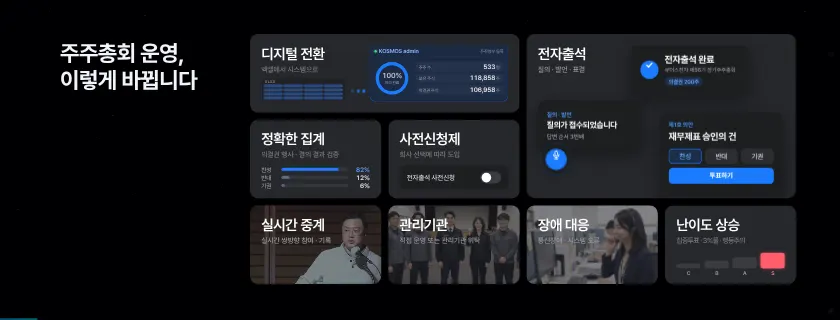
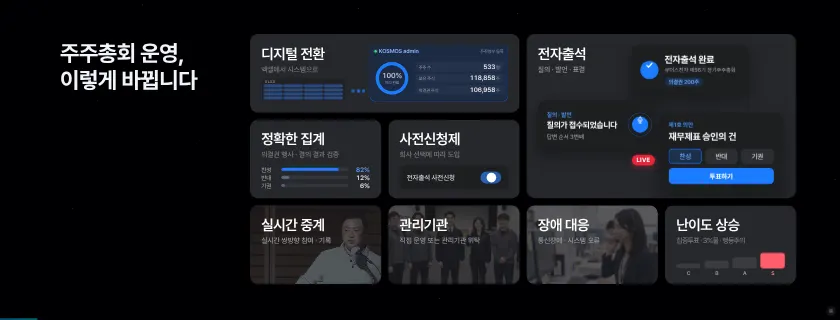
세션4 K02 마이크 아이콘 질의 · 발언 카드 안으로, 카드 아래 오른쪽 LIVE 뱃지, 중계 · 관리기관 · 장애 대응 사진 더 어둡게
Claude-Session: https://claude.ai/code/session_01Mn7NmyW5iujmmHnaRBFKBZ

diff --git a/session4.html b/session4.html
@@ -2259,6 +2259,17 @@ html.r169 #K27 .sec-h{font-size:92px!important}
 .s.cur#K27 .photo{animation:k27p2 1.6s cubic-bezier(.2,.7,.2,1) .9s both!important}
 .s.cur#K27 .shade{animation:k27s .1s linear .9s both!important}
 @keyframes k27p2{from{opacity:0;scale:1.04}to{opacity:1;scale:1}}
+
+/* 11/27 23:12 K02 마이크 아이콘을 질의 · 발언 카드 안 오른쪽으로, 카드 아래 오른쪽에 LIVE 뱃지, 중계 · 관리기관 · 장애 대응 사진 더 어둡게 */
+#K02 .bc.ph .u3{padding-right:124px!important;width:548px!important}
+#K02 .bc.ph .u3 .vic{left:auto;right:32px;top:50%;width:76px;height:76px;margin-top:-38px;opacity:1!important;box-shadow:none}
+#K02 .bc.ph .u3 .vic svg{width:38px;height:38px}
+#K02 .bc.ph .k2live{position:absolute;left:526px;top:604px;z-index:3;display:inline-flex;align-items:center;gap:12px;padding:12px 24px;border-radius:999px;background:#e5243b;color:#fff;font:700 30px/1 "Pretendard Variable";letter-spacing:.04em;box-shadow:0 10px 30px rgba(229,36,59,.35);opacity:0}
+#K02 .bc.ph .k2live i{width:12px;height:12px;border-radius:50%;background:#fff}
+#K02.cur .bc.ph .k2live{opacity:1;transition:opacity .5s ease 2.2s}
+#K02.cur .bc.ph .k2live i{animation:k2lv 1.2s ease-in-out infinite}
+@keyframes k2lv{50%{opacity:.25}}
+#K02 .bw:is(.d,.f,.g) .bc.im i,#K02 .bw:is(.d,.f,.g) .bc.im video{filter:brightness(.62)!important}
 /* ═════ 16:9 버전 (?a=16x9, 11/27) ═════
    ※ 빔프로젝터(led.html?a=16x9) M7-7이 이 모드를 씀. 장을 고치면 ?a=16x9로도 확인하고, 21:8 원본 위치를 바꾸면 아래 html.r169 #Kxx 규칙도 같이 맞출 것.
       R169Z(묶음 축소) 장은 내용 범위를 자동으로 재서 배치하므로 대부분 따라감.
@@ -2367,7 +2378,7 @@ html.r169 #K28p .k28bg{top:800px}
 <section class="s" id="K02" data-t="운영의 8가지 변화" data-dim=".2">
  <div class="top"><h2 class="h hm fu" style="--i:1">주주총회 운영,<br>이렇게 바뀝니다</h2></div>
  <div class="sw"><div class="swt"><div class="cc l" style="background:radial-gradient(120% 80% at 80% 100%,#4677e6 0%,rgba(70,119,230,0) 60%),linear-gradient(170deg,#e9eef8 0%,#b8c9ee 100%)"><p class="cs">엑셀에서 시스템으로</p><b>디지털 전환</b></div><div class="cc l" style="background:radial-gradient(120% 80% at 80% 100%,#64a8e6 0%,rgba(100,168,230,0) 60%),linear-gradient(170deg,#e8f1f8 0%,#b8d5ee 100%)"><p class="cs">질의 · 발언 · 표결</p><b>전자출석</b></div><div class="cc l" style="background:radial-gradient(120% 80% at 80% 100%,#4677e6 0%,rgba(70,119,230,0) 60%),linear-gradient(170deg,#e9eef8 0%,#b8c9ee 100%)"><p class="cs">회사 선택에 따라 도입</p><b>사전신청제</b></div><div class="cc l" style="background:radial-gradient(120% 80% at 80% 100%,#4677e6 0%,rgba(70,119,230,0) 60%),linear-gradient(170deg,#e9eef8 0%,#b8c9ee 100%)"><p class="cs">실시간 쌍방향 참여 · 기록</p><b>실시간 중계</b></div><div class="cc l" style="background:radial-gradient(120% 80% at 80% 100%,#64a8e6 0%,rgba(100,168,230,0) 60%),linear-gradient(170deg,#e8f1f8 0%,#b8d5ee 100%)"><p class="cs">의결권 행사 · 결의 결과 검증</p><b>정확한 집계</b></div><div class="cc l" style="background:radial-gradient(120% 80% at 80% 100%,#64a8e6 0%,rgba(100,168,230,0) 60%),linear-gradient(170deg,#e8f1f8 0%,#b8d5ee 100%)"><p class="cs">직접 운영 또는<br>관리기관 위탁</p><b>관리기관</b></div><div class="cc l" style="background:radial-gradient(120% 80% at 80% 100%,#ec5566 0%,rgba(236,85,102,0) 62%),linear-gradient(170deg,#f6ecee 0%,#eac0c6 100%)"><p class="cs">통신장애 · 시스템 오류</p><b>장애 대응</b></div><div class="cc l" style="background:radial-gradient(120% 80% at 80% 100%,#ec5566 0%,rgba(236,85,102,0) 62%),linear-gradient(170deg,#f6ecee 0%,#eac0c6 100%)"><p class="cs">집중투표 · 3%룰 · 행동주의</p><b>난이도 상승</b></div></div></div>
- <div class="bt"><div class="bw a" style="--k:0"><div class="bc co" style="background:radial-gradient(120% 80% at 80% 100%,#4677e6 0%,rgba(70,119,230,0) 60%),linear-gradient(170deg,#e9eef8 0%,#b8c9ee 100%)"><b>디지털 전환</b><p>엑셀에서 시스템으로</p><div class="vz dx"><div class="xl"><span class="xt">XLSX</span><i style="--r:0"></i><i style="--r:0"></i><i style="--r:0"></i><i style="--r:0"></i><i style="--r:1"></i><i style="--r:1"></i><i style="--r:1"></i><i style="--r:1"></i><i style="--r:2"></i><i style="--r:2"></i><i style="--r:2"></i><i style="--r:2"></i><i style="--r:3"></i><i style="--r:3"></i><i style="--r:3"></i><i style="--r:3"></i></div><div class="ar"><i></i><i></i><i></i></div><div class="sy db"><div class="dh"><span class="st"><i></i>KOSMOS admin</span><span class="dt">주주명부 등록</span></div><div class="dbb"><div class="rg"><svg viewBox="0 0 120 120"><circle cx="60" cy="60" r="50" class="t"/><circle cx="60" cy="60" r="50" class="f" pathLength="100"/></svg><p><em class="pc"></em><small>처리 완료</small></p></div><div class="kp"><div><small>주주 수</small><span><b data-t="533">0</b><i>명</i></span></div><div><small>보유 주식</small><span><b data-t="118858">0</b><i>주</i></span></div><div><small>의결권 주식</small><span><b data-t="106958">0</b><i>주</i></span></div></div></div></div></div></div></div><div class="bw b" style="--k:1"><div class="bc im ph"><div class="vic"><i></i><i></i><svg viewBox="0 0 24 24"><rect x="9" y="3" width="6" height="11" rx="3"/><path d="M5.5 11a6.5 6.5 0 0 0 13 0M12 17.5V21M8.5 21h7"/></svg></div><div class="uc u1"><div class="ck"><svg viewBox="0 0 24 24"><path d="M6 12.5l4 4 8-9"/></svg></div><div><b>전자출석 완료</b><span>큐더스전자 제56기 정기주주총회</span><em>의결권 200주</em></div></div><div class="uc u2"><span class="ag">제1호 의안</span><b>재무제표 승인의 건</b><div class="vt"><div class="on">찬성</div><div>반대</div><div>기권</div></div><div class="go">투표하기</div></div><div class="uc u3"><span class="ag">질의 · 발언</span><b>질의가 접수되었습니다</b><span>답변 순서 3번째</span></div><b>전자출석</b><p>질의 · 발언 · 표결</p></div></div><div class="bw c" style="--k:2"><div class="bc co" style="background:radial-gradient(120% 80% at 80% 100%,#64a8e6 0%,rgba(100,168,230,0) 60%),linear-gradient(170deg,#e8f1f8 0%,#b8d5ee 100%)"><b>정확한 집계</b><p>의결권 행사 · 결의 결과 검증</p><div class="vz tl2"><div class="r"><span>찬성</span><i><b style="--w:.82"></b></i><em style="--t:82"></em></div><div class="r"><span>반대</span><i><b style="--w:.12"></b></i><em style="--t:12"></em></div><div class="r"><span>기권</span><i><b style="--w:.06"></b></i><em style="--t:6"></em></div></div></div></div><div class="bw d" style="--k:3"><div class="bc im"><video src="assets/s4/ke-live.mp4" muted autoplay loop playsinline></video><b>실시간 중계</b><p>실시간 쌍방향 참여 · 기록</p></div></div><div class="bw e" style="--k:4"><div class="bc co" style="background:radial-gradient(120% 80% at 80% 100%,#64a8e6 0%,rgba(100,168,230,0) 60%),linear-gradient(170deg,#e8f1f8 0%,#b8d5ee 100%)"><b>사전신청제</b><p>회사 선택에 따라 도입</p><div class="vz tg"><span>전자출석 사전신청</span><i></i></div></div></div><div class="bw f" style="--k:5"><div class="bc im"><i style="background-image:url(assets/s4/k2-agency.webp)"></i><b>관리기관</b><p>직접 운영 또는 관리기관 위탁</p></div></div><div class="bw g" style="--k:6"><div class="bc im"><i style="background-image:url(assets/s4/k2-support.webp)"></i><b>장애 대응</b><p>통신장애 · 시스템 오류</p></div></div><div class="bw h" style="--k:7"><div class="bc co" style="background:radial-gradient(120% 80% at 80% 100%,#ec5566 0%,rgba(236,85,102,0) 62%),linear-gradient(170deg,#f6ecee 0%,#eac0c6 100%)"><b>난이도 상승</b><p>집중투표 · 3%룰 · 행동주의</p><div class="vz stp"><div class="sb" style="--h:.3"><i></i><span>C</span></div><div class="sb" style="--h:.5"><i></i><span>B</span></div><div class="sb" style="--h:.72"><i></i><span>A</span></div><div class="sb sx" style="--h:1"><i></i><span>S</span></div></div></div></div></div>
+ <div class="bt"><div class="bw a" style="--k:0"><div class="bc co" style="background:radial-gradient(120% 80% at 80% 100%,#4677e6 0%,rgba(70,119,230,0) 60%),linear-gradient(170deg,#e9eef8 0%,#b8c9ee 100%)"><b>디지털 전환</b><p>엑셀에서 시스템으로</p><div class="vz dx"><div class="xl"><span class="xt">XLSX</span><i style="--r:0"></i><i style="--r:0"></i><i style="--r:0"></i><i style="--r:0"></i><i style="--r:1"></i><i style="--r:1"></i><i style="--r:1"></i><i style="--r:1"></i><i style="--r:2"></i><i style="--r:2"></i><i style="--r:2"></i><i style="--r:2"></i><i style="--r:3"></i><i style="--r:3"></i><i style="--r:3"></i><i style="--r:3"></i></div><div class="ar"><i></i><i></i><i></i></div><div class="sy db"><div class="dh"><span class="st"><i></i>KOSMOS admin</span><span class="dt">주주명부 등록</span></div><div class="dbb"><div class="rg"><svg viewBox="0 0 120 120"><circle cx="60" cy="60" r="50" class="t"/><circle cx="60" cy="60" r="50" class="f" pathLength="100"/></svg><p><em class="pc"></em><small>처리 완료</small></p></div><div class="kp"><div><small>주주 수</small><span><b data-t="533">0</b><i>명</i></span></div><div><small>보유 주식</small><span><b data-t="118858">0</b><i>주</i></span></div><div><small>의결권 주식</small><span><b data-t="106958">0</b><i>주</i></span></div></div></div></div></div></div></div><div class="bw b" style="--k:1"><div class="bc im ph"><div class="uc u1"><div class="ck"><svg viewBox="0 0 24 24"><path d="M6 12.5l4 4 8-9"/></svg></div><div><b>전자출석 완료</b><span>큐더스전자 제56기 정기주주총회</span><em>의결권 200주</em></div></div><div class="uc u2"><span class="ag">제1호 의안</span><b>재무제표 승인의 건</b><div class="vt"><div class="on">찬성</div><div>반대</div><div>기권</div></div><div class="go">투표하기</div></div><div class="uc u3"><div class="vic"><i></i><i></i><svg viewBox="0 0 24 24"><rect x="9" y="3" width="6" height="11" rx="3"/><path d="M5.5 11a6.5 6.5 0 0 0 13 0M12 17.5V21M8.5 21h7"/></svg></div><span class="ag">질의 · 발언</span><b>질의가 접수되었습니다</b><span>답변 순서 3번째</span></div><span class="k2live"><i></i>LIVE</span><b>전자출석</b><p>질의 · 발언 · 표결</p></div></div><div class="bw c" style="--k:2"><div class="bc co" style="background:radial-gradient(120% 80% at 80% 100%,#64a8e6 0%,rgba(100,168,230,0) 60%),linear-gradient(170deg,#e8f1f8 0%,#b8d5ee 100%)"><b>정확한 집계</b><p>의결권 행사 · 결의 결과 검증</p><div class="vz tl2"><div class="r"><span>찬성</span><i><b style="--w:.82"></b></i><em style="--t:82"></em></div><div class="r"><span>반대</span><i><b style="--w:.12"></b></i><em style="--t:12"></em></div><div class="r"><span>기권</span><i><b style="--w:.06"></b></i><em style="--t:6"></em></div></div></div></div><div class="bw d" style="--k:3"><div class="bc im"><video src="assets/s4/ke-live.mp4" muted autoplay loop playsinline></video><b>실시간 중계</b><p>실시간 쌍방향 참여 · 기록</p></div></div><div class="bw e" style="--k:4"><div class="bc co" style="background:radial-gradient(120% 80% at 80% 100%,#64a8e6 0%,rgba(100,168,230,0) 60%),linear-gradient(170deg,#e8f1f8 0%,#b8d5ee 100%)"><b>사전신청제</b><p>회사 선택에 따라 도입</p><div class="vz tg"><span>전자출석 사전신청</span><i></i></div></div></div><div class="bw f" style="--k:5"><div class="bc im"><i style="background-image:url(assets/s4/k2-agency.webp)"></i><b>관리기관</b><p>직접 운영 또는 관리기관 위탁</p></div></div><div class="bw g" style="--k:6"><div class="bc im"><i style="background-image:url(assets/s4/k2-support.webp)"></i><b>장애 대응</b><p>통신장애 · 시스템 오류</p></div></div><div class="bw h" style="--k:7"><div class="bc co" style="background:radial-gradient(120% 80% at 80% 100%,#ec5566 0%,rgba(236,85,102,0) 62%),linear-gradient(170deg,#f6ecee 0%,#eac0c6 100%)"><b>난이도 상승</b><p>집중투표 · 3%룰 · 행동주의</p><div class="vz stp"><div class="sb" style="--h:.3"><i></i><span>C</span></div><div class="sb" style="--h:.5"><i></i><span>B</span></div><div class="sb" style="--h:.72"><i></i><span>A</span></div><div class="sb sx" style="--h:1"><i></i><span>S</span></div></div></div></div></div>
 <!-- 이전 4장 회전 카드(11/23) --><div class="g4" hidden><div class="g4w" style="--k:0"><div class="fl"><div class="cc l fr" style="background:radial-gradient(120% 80% at 80% 100%,#4677e6 0%,rgba(70,119,230,0) 60%),linear-gradient(170deg,#e9eef8 0%,#b8c9ee 100%)"><p class="cs">엑셀에서 시스템으로</p><b>디지털 전환</b></div><div class="cc l bk" style="background:radial-gradient(120% 80% at 80% 100%,#64a8e6 0%,rgba(100,168,230,0) 60%),linear-gradient(170deg,#e8f1f8 0%,#b8d5ee 100%)"><p class="cs">직접 운영 또는 관리기관 위탁</p><b>관리기관</b></div></div></div><div class="g4w" style="--k:1"><div class="fl"><div class="cc l fr" style="background:radial-gradient(120% 80% at 80% 100%,#64a8e6 0%,rgba(100,168,230,0) 60%),linear-gradient(170deg,#e8f1f8 0%,#b8d5ee 100%)"><p class="cs">질의 · 발언 · 표결</p><b>전자출석</b></div><div class="cc l bk" style="background:radial-gradient(120% 80% at 80% 100%,#4677e6 0%,rgba(70,119,230,0) 60%),linear-gradient(170deg,#e9eef8 0%,#b8c9ee 100%)"><p class="cs">회사 선택에 따라 도입</p><b>사전신청제</b></div></div></div><div class="g4w" style="--k:2"><div class="fl"><div class="cc l fr" style="background:radial-gradient(120% 80% at 80% 100%,#4677e6 0%,rgba(70,119,230,0) 60%),linear-gradient(170deg,#e9eef8 0%,#b8c9ee 100%)"><p class="cs">실시간 쌍방향 참여 · 기록</p><b>실시간 중계</b></div><div class="cc l bk" style="background:radial-gradient(120% 80% at 80% 100%,#64a8e6 0%,rgba(100,168,230,0) 60%),linear-gradient(170deg,#e8f1f8 0%,#b8d5ee 100%)"><p class="cs">의결권 행사 · 결의 결과 검증</p><b>정확한 집계</b></div></div></div><div class="g4w" style="--k:3"><div class="fl"><div class="cc l fr" style="background:radial-gradient(120% 80% at 80% 100%,#ec5566 0%,rgba(236,85,102,0) 62%),linear-gradient(170deg,#f6ecee 0%,#eac0c6 100%)"><p class="cs">통신장애 · 시스템 오류</p><b>장애 대응</b></div><div class="cc l bk" style="background:radial-gradient(120% 80% at 80% 100%,#ec5566 0%,rgba(236,85,102,0) 62%),linear-gradient(170deg,#f6ecee 0%,#eac0c6 100%)"><p class="cs">집중투표 · 3%룰 · 행동주의</p><b>난이도 상승</b></div></div></div></div>
 </section>
 

diff --git a/sw.js b/sw.js
@@ -1,5 +1,5 @@
 /* 오프라인 캐시 — 온라인 주소(https)로 한 번 열면 모든 파일을 저장해 두고, 통신이 끊겨도 저장본으로 동작합니다. */
-const V='seminar-screen-11272301';
+const V='seminar-screen-11272311';
 const FILES=["./","assets/KakaoBigSans-Bold.woff2","assets/KakaoBigSans-Regular.woff2","assets/KakaoSmallSans-Bold.woff2","assets/KakaoSmallSans-Light.woff2","assets/KakaoSmallSans-Regular.woff2","assets/OrbitControls.js","assets/PretendardVariable.woff2","assets/attendees.js","assets/blue-bloom.html","assets/cong1.webp","assets/cong2.webp","assets/ds-bg.html","assets/four-states.html","assets/intro.mp4","assets/irk-white.svg","assets/irk-wordmark-white.svg","assets/kism-intro.mp4","assets/kism-white.svg","assets/ksmp-white.svg","assets/panel.js","assets/qa-online.js","assets/s2/img1.png","assets/s2/img2.png","assets/s2/img3.png","assets/s2/img4.png","assets/s4/aws.webp","assets/s4/callcenter.webp","assets/s4/chair-1.webp","assets/s4/chair-2.webp","assets/s4/chair-3.webp","assets/s4/conexus-word.webp","assets/s4/ctl-1.webp","assets/s4/cx-1.webp","assets/s4/cx-2.webp","assets/s4/cx-3.webp","assets/s4/cx-flow.mp4","assets/s4/cx-pop1.webp","assets/s4/cx-pop2.webp","assets/s4/cx-vote.mp4","assets/s4/cx-vote.webp","assets/s4/cxs-1.webp","assets/s4/insurance.webp","assets/s4/isms-t.webp","assets/s4/isms.webp","assets/s4/ismsp-t.webp","assets/s4/ismsp.webp","assets/s4/kosmos-white.png","assets/s4/ks-1.webp","assets/s4/ks-2.webp","assets/s4/ks-3.webp","assets/s4/ks-4.webp","assets/s4/ks-5.webp","assets/s4/ks-video.webp","assets/s4/live-1.webp","assets/s4/live-2.webp","assets/s4/live-3.webp","assets/s4/live-4.webp","assets/s4/live-5.webp","assets/s4/live-6.webp","assets/s4/live-7.webp","assets/s4/live-8.webp","assets/s4/logos.webp","assets/s4/ocr-1.webp","assets/s4/ocr-2.webp","assets/s4/ocr-3.webp","assets/s4/ocr-4.webp","assets/s4/ocr-5.webp","assets/s4/on-1.png","assets/s4/on-2.webp","assets/s4/on-3.webp","assets/s4/on-4.png","assets/s4/on-5.webp","assets/s4/onboard-1.webp","assets/s4/onboard-2.webp","assets/s4/privacy.webp","assets/s4/proxymity.svg","assets/s4/rehearsal.webp","assets/s4/streaming-korea.webp","assets/s4/tab-1.webp","assets/s4/tab-2.webp","assets/s4/team.webp","assets/sched.js","assets/screen-title-2.svg","assets/screen-title-b-text.svg","assets/screen-title-b.svg","assets/seat-banners.js","assets/seat-fascia.js","assets/seat-screen.js","assets/seatmap.js","assets/service-intro.mp4","assets/speaker-scott.webp","assets/speaker1-1.webp","assets/speaker2.webp","assets/speaker3-1.webp","assets/supabase.min.js","assets/three.min.js","assets/title-logos.svg","control.html","index-fs.html","index.html","kism.html","lobby/cuts.html","lobby/index.html","mc.html","session2.html","session4.html","sw.js","tools/s2_build.py","tools/s2_shell.html","assets/s3/p01.webp","assets/s3/p02.webp","assets/s3/p03.webp","assets/s3/p04.webp","assets/s3/p05.webp","assets/s3/p06.webp","assets/s3/p07.webp","assets/s3/p08.webp","assets/s3/p09.webp","assets/s3/p10.webp","assets/s3/p11.webp","assets/s3/p12.webp","assets/s3/p13.webp","assets/s3/p14.webp","assets/s3/p15.webp","assets/s3/p16.webp","assets/s3/p17.webp","assets/s3/p18.webp","assets/s3/p19.webp","assets/s3/p20.webp","assets/s3/p21.webp","assets/s3/p22.webp","assets/s3/p23.webp","assets/kism/photo-main.webp","assets/kism/photo-2.webp","assets/kism/photo-3.webp","assets/kism/photo-4.webp","assets/sound/countdown-tick.mp3","assets/sound/sfx-s3-part.mp3","assets/sound/sfx-s4-reveal.mp3","assets/sound/sfx-s5-proxymity.mp3","assets/sound/sfx-s6-chime.mp3","assets/sound/sfx-s7-close.mp3","assets/sound/sfx-k-chapter.mp3","assets/sound/sfx-k-close.mp3","assets/sound/opening-hit.mp3","assets/s4/kosmos-color.svg","assets/s4/ke-logo.png","assets/s4/ke-live.mp4","assets/kism/kwon-talk.mp4","assets/kism/manual-book.webp","kism-open.html","kism_16x9.html","led.html","assets/s4/cx-ops.mp4","assets/s4/cx-ops.webp","assets/s4/agent-app.mp4","assets/s4/kosmos-web.webp","assets/s4/ks-attend.mp4","assets/s4/ks-attend.webp","assets/s4/ks-switch.mp4","assets/s4/ks-switch.webp","assets/s4/ks-notify.mp4","assets/s4/ks-notify.webp","assets/s4/ks-vote.mp4","assets/s4/ks-vote.webp","assets/s4/ks-qna.mp4","assets/s4/ks-qna.webp","assets/s4/pc-map.webp","assets/s4/pc-map.mp4","assets/s4/pc-web.mp4","assets/s4/pc-web.webp","assets/s4/agent-app.webp","assets/s4/k24b-bg.webp","session0.html","face.html","assets/face-link.js","assets/kism/photo-main-cut.webp","assets/s4/cx-chair.mp4","assets/s4/cx-chair.webp","assets/s4/cx-test.mp4","assets/s4/cx-test.webp","assets/s4/onboard-mgr.webp","assets/s4/proxymity-logo.png","assets/s4/k21-bg.webp","assets/s4/kosmos-admin-white.svg","assets/kism-intro-16x9.mp4","assets/seat-guide.html","assets/s4/app-icon-agent.svg","assets/ds-main.mp4","assets/s4/k2-agency.webp","assets/s4/k2-support.webp","assets/s4/thumbs/K00.webp","assets/s4/thumbs/K01.webp","assets/s4/thumbs/K02.webp","assets/s4/thumbs/K03.webp","assets/s4/thumbs/K04.webp","assets/s4/thumbs/K05.webp","assets/s4/thumbs/K06.webp","assets/s4/thumbs/K07.webp","assets/s4/thumbs/K08.webp","assets/s4/thumbs/K09.webp","assets/s4/thumbs/K10.webp","assets/s4/thumbs/K11.webp","assets/s4/thumbs/K12.webp","assets/s4/thumbs/K13.webp","assets/s4/thumbs/K14.webp","assets/s4/thumbs/K15.webp","assets/s4/thumbs/K16.webp","assets/s4/thumbs/K17.webp","assets/s4/thumbs/K18a.webp","assets/s4/thumbs/K18b.webp","assets/s4/thumbs/K18c.webp","assets/s4/thumbs/K19.webp","assets/s4/thumbs/K19b.webp","assets/s4/thumbs/K19c.webp","assets/s4/thumbs/K20.webp","assets/s4/thumbs/K21.webp","assets/s4/thumbs/K21b.webp","assets/s4/thumbs/K22s.webp","assets/s4/thumbs/K23.webp","assets/s4/thumbs/K23b.webp","assets/s4/thumbs/K24a.webp","assets/s4/thumbs/K24b.webp","assets/s4/thumbs/K24c.webp","assets/s4/thumbs/K25.webp","assets/s4/thumbs/K25b.webp","assets/s4/thumbs/K26.webp","assets/s4/thumbs/K27.webp","assets/s4/thumbs/K28a.webp","assets/s4/thumbs/K28b.webp","assets/s4/thumbs/K28c.webp","assets/s4/thumbs/K28d.webp","assets/s4/thumbs/K29.webp","assets/s4/thumbs/K30.webp","assets/s4/thumbs/K09b.webp","assets/s4/thumbs/K28e.webp","assets/s4/thumbs/K28p.webp","assets/s4/onsite-vote.mp4","assets/s4/onsite-vote.webp","assets/s4/rehearsal-site.webp","assets/qr-ask.svg","assets/inv/bnp.png","assets/inv/bny.png","assets/inv/citi.png","assets/inv/computershare.png","assets/inv/deutsche-bank.png","assets/inv/deutsche-boerse.png","assets/inv/euroclear.png","assets/inv/hsbc.png","assets/inv/jpmorgan.png","assets/inv/mufg.png","assets/inv/state-street.png","assets/proxymity-logo.png","assets/sound/break-bgm.mp3","assets/sound/wait-bgm.mp3","assets/s4/beacon.webp","assets/s4/k27-partner.webp"];
 self.addEventListener('install',e=>{e.waitUntil(caches.open(V).then(c=>c.addAll(FILES)).then(()=>self.skipWaiting()));});
 self.addEventListener('activate',e=>{e.waitUntil(caches.keys().then(ks=>Promise.all(ks.filter(k=>k!==V).map(k=>caches.delete(k)))).then(()=>self.clients.claim()));});
